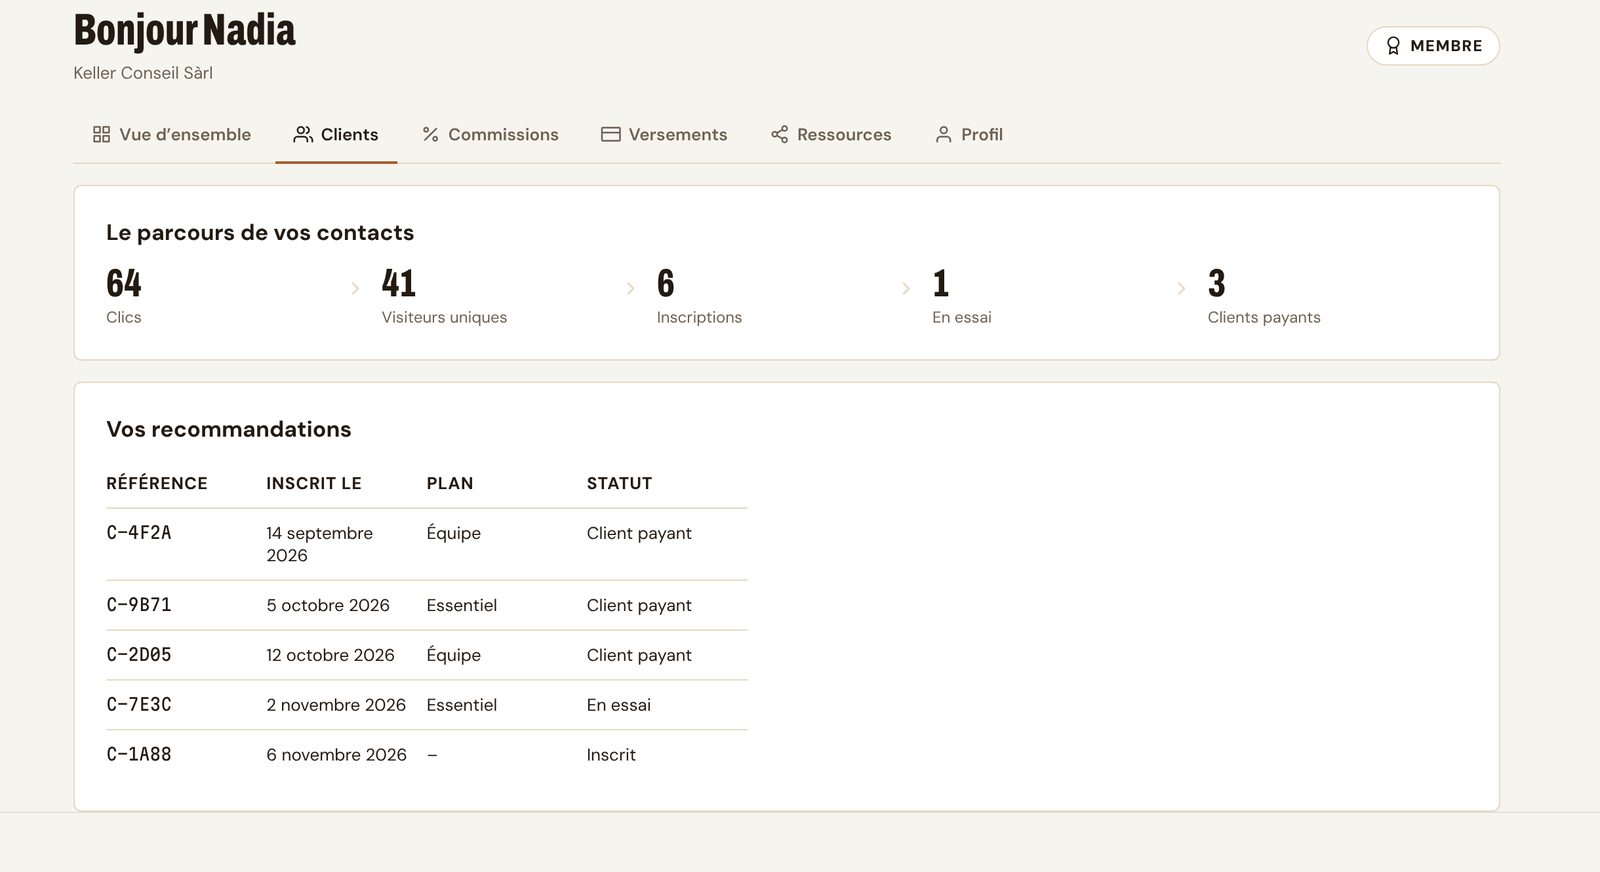
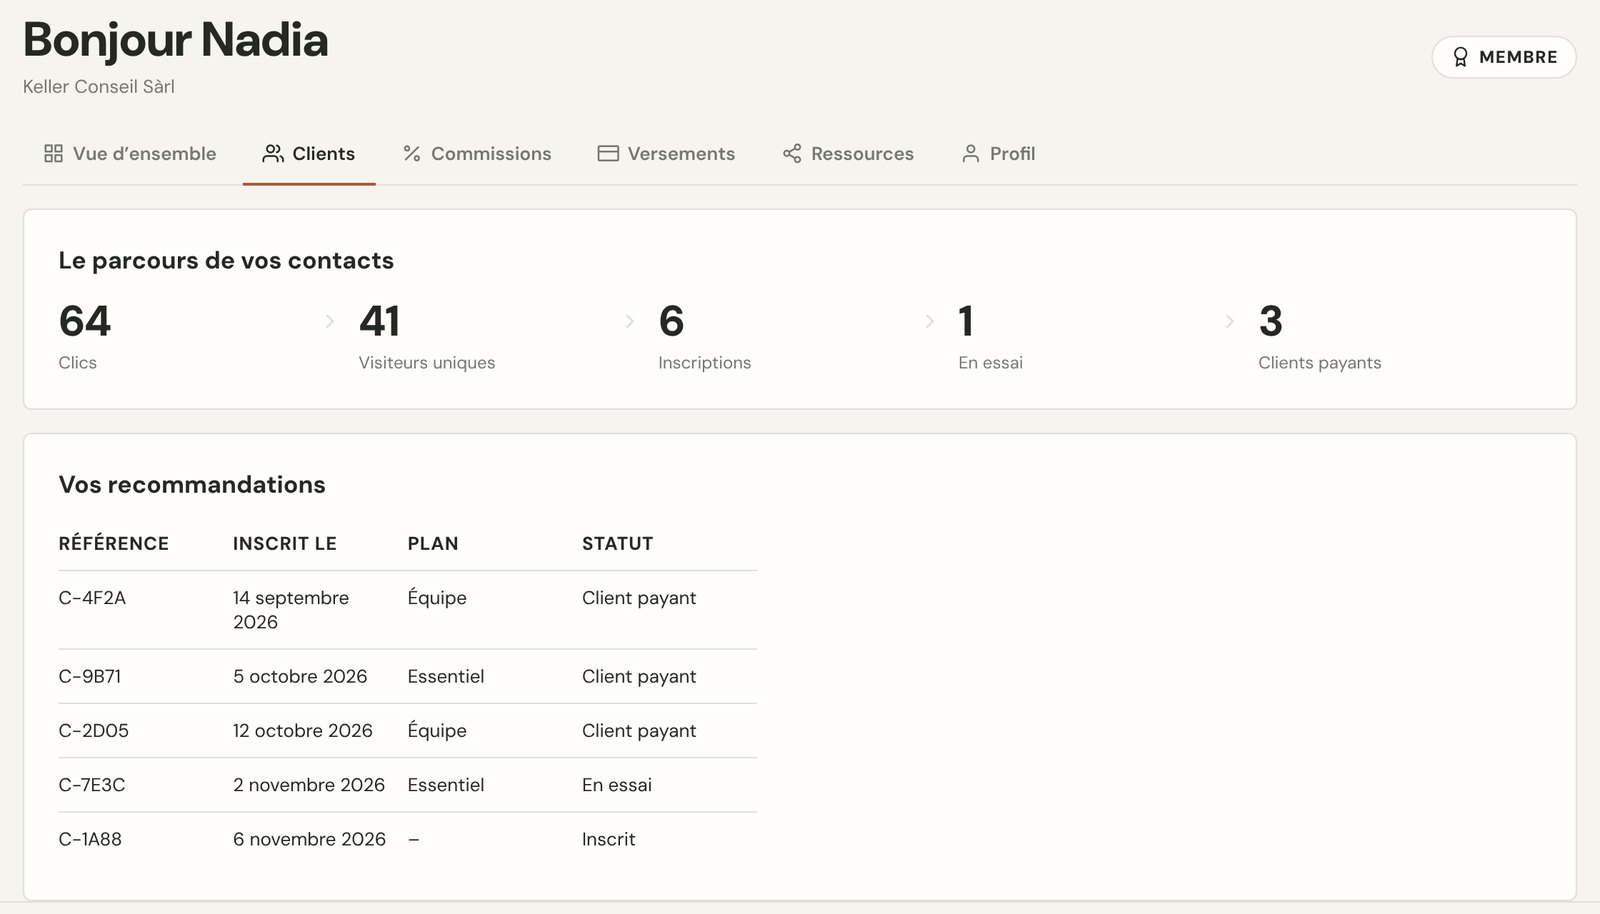
Site: new captures of the extra-work list and the partner space
Claude-Session: https://claude.ai/code/session_01CbUBuqiAHhNgBBVdNwoKUJ

diff --git a/components/partners/PartnersLanding.tsx b/components/partners/PartnersLanding.tsx
@@ -306,7 +306,7 @@ const PARTNER_SHOTS: Record<'fr' | 'de' | 'it', { space: ImageSourcePropType; cl
   de: { space: require('../../assets/marketing/partners/espace-de.jpg'), clients: require('../../assets/marketing/partners/clients-de.jpg') },
   it: { space: require('../../assets/marketing/partners/espace-it.jpg'), clients: require('../../assets/marketing/partners/clients-it.jpg') },
 };
-const CLIENTS_RATIO = 872 / 1600;
+const CLIENTS_RATIO = 914 / 1600;
 
 const PROOF_COPY = {
   fr: {
